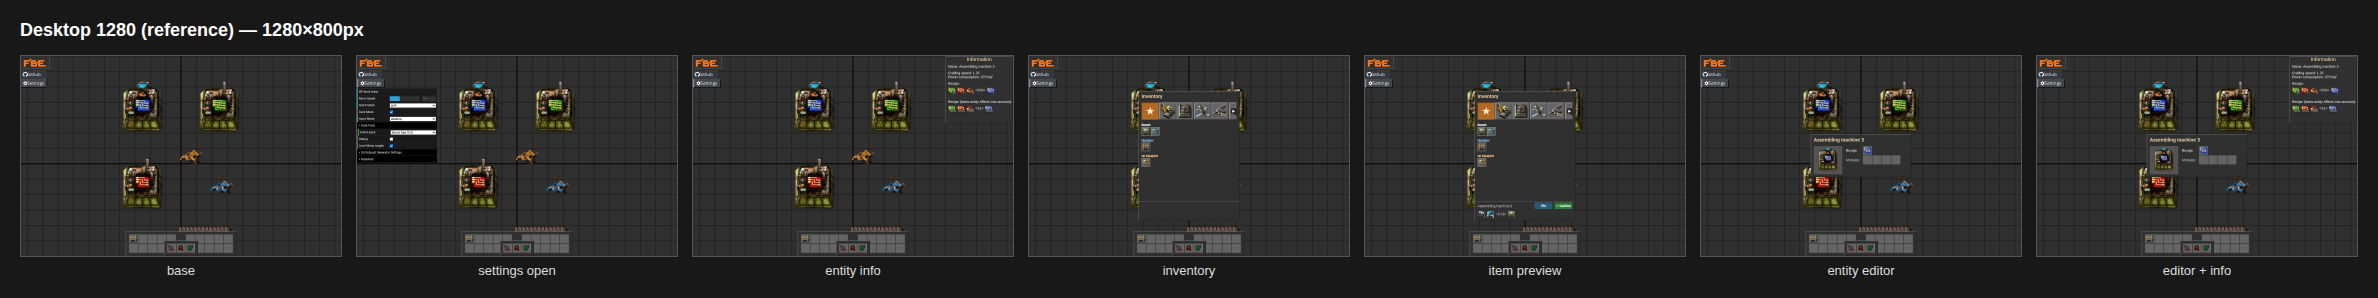
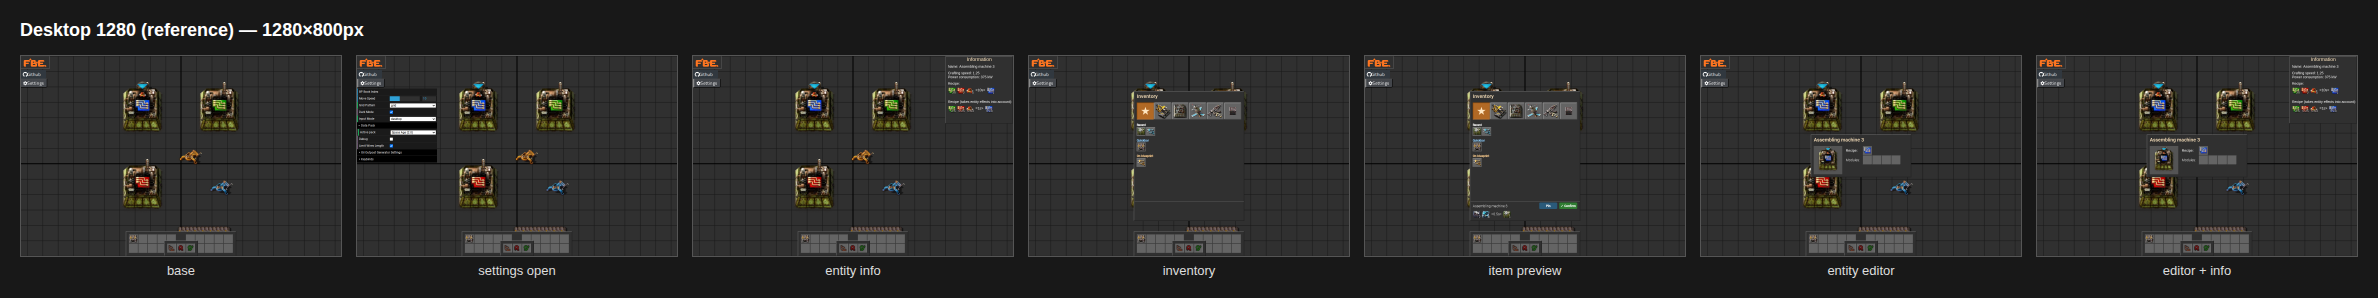
Inventory: responsive body width so the tab scroll only engages when needed
The dialog was a fixed 404px with a 10-column grid, so the group-tab row (Space
Age has ~8 groups) overflowed internally and the ◀▶ scroll engaged on any screen
width. The body width is now computed to fit all tabs, capped to the screen and
never below the 404px 10-col minimum; the item grid takes as many 38px columns as
fit. So on a wide screen the tabs all show (no horizontal scroll) and items use
the extra width; narrow phones are unchanged (404, scaled to fit). Tab/item
viewports, masks, arrows, recipe strip and the Confirm/Pin bar all derive from the
width now. (Editors are fixed-width and never scrolled horizontally.)

type-check/lint/build clean; storyboard shows the wide inventory with all tabs in
one row; panels e2e green.

https://claude.ai/code/session_01ALecjJBbKEuKghH8Qn3ShR

diff --git a/packages/editor/src/UI/InventoryDialog.ts b/packages/editor/src/UI/InventoryDialog.ts
@@ -53,17 +53,23 @@ export class InventoryDialog extends Dialog {
     /** Hovered item for item pointerout check */
     private m_hoveredItem: string
 
-    // Scroll state. The group-tab row (Space Age adds enough groups to overflow
-    // the 404px body) scrolls horizontally; the active group's item grid scrolls
-    // vertically so any number of items is reachable. Both are masked to their
-    // viewport and driven by arrow buttons (drag-pan + tap-to-confirm come later).
-    private static readonly VIEW_W = 380
+    // Scroll state. The group-tab row scrolls horizontally and the active item
+    // grid vertically, each masked to its viewport and driven by arrow buttons.
+    // The body width is responsive (see computeWidth), so the tab scroll only
+    // engages when the tabs genuinely don't fit the screen.
     private static readonly TAB_H = 68
     private static readonly ITEMS_H = 304
+    /** Item grid columns, derived from the (responsive) body width. */
+    private m_cols = 10
     private m_tabScroll = 0
     private m_itemScroll = 0
     private m_tabArrows?: { left: Container; right: Container; max: number }
     private m_itemArrows?: { up: Container; down: Container }
+
+    /** Inner content/viewport width = body width minus the 12px side margins. */
+    private get viewW(): number {
+        return this.width - 24
+    }
 
     // Long-press preview state + the bottom Confirm / Pin bar it reveals.
     private m_itemsFilter?: string[]
@@ -83,8 +89,9 @@ export class InventoryDialog extends Dialog {
         selectedCallBack?: (selectedItem: string) => void,
         recentsKey?: string
     ) {
-        super(404, 442, title)
+        super(InventoryDialog.computeWidth(itemsFilter, recentsKey), 442, title)
 
+        this.m_cols = Math.floor(this.viewW / 38)
         this.m_itemsFilter = itemsFilter
         this.m_selectedCallBack = selectedCallBack
         this.m_recentsKey = recentsKey
@@ -159,7 +166,7 @@ export class InventoryDialog extends Dialog {
                 for (const item of subgroup.items) {
                     if (!this.isAllowed(item.name)) continue
 
-                    if (itemColIndex === 10) {
+                    if (itemColIndex === this.m_cols) {
                         itemColIndex = 0
                         itemRowIndex += 1
                     }
@@ -190,7 +197,7 @@ export class InventoryDialog extends Dialog {
         this.addChild(recipePanel)
 
         const recipeBackground = F.DrawRectangle(
-            404,
+            this.width,
             78,
             colors.dialog.background.color,
             colors.dialog.background.alpha,
@@ -212,7 +219,7 @@ export class InventoryDialog extends Dialog {
         const pin = InventoryDialog.barButton('Pin', 0x2a5a7a)
         this.m_pinBtn = pin.container
         this.m_pinText = pin.text
-        this.m_pinBtn.position.set(240, 446)
+        this.m_pinBtn.position.set(this.width - 164, 446)
         this.m_pinBtn.on('pointerup', e => {
             e.stopPropagation()
             const name = this.m_previewName
@@ -232,7 +239,7 @@ export class InventoryDialog extends Dialog {
 
         const confirm = InventoryDialog.barButton('✓ Confirm', 0x2f7d32)
         this.m_confirmBtn = confirm.container
-        this.m_confirmBtn.position.set(320, 446)
+        this.m_confirmBtn.position.set(this.width - 84, 446)
         this.m_confirmBtn.on('pointerup', e => {
             e.stopPropagation()
             if (this.m_previewName) this.commitSelect(this.m_previewName)
@@ -245,14 +252,36 @@ export class InventoryDialog extends Dialog {
 
     /** Filter a name to what this selector allows (filter list, or placeable). */
     private isAllowed(name: string): boolean {
-        const filter = this.m_itemsFilter
-        if (filter !== undefined) return filter.includes(name)
+        return InventoryDialog.isItemAllowed(name, this.m_itemsFilter)
+    }
+
+    private static isItemAllowed(name: string, itemsFilter?: string[]): boolean {
+        if (itemsFilter !== undefined) return itemsFilter.includes(name)
         const itemData = FD.items[name]
         if (!itemData) return false
         if (!itemData.place_result && !itemData.place_as_tile) return false
         // needed for robots/trains/cars
         if (itemData.place_result && !FD.entities[itemData.place_result]) return false
         return true
+    }
+
+    /**
+     * Body width: wide enough to show all group tabs (Space Age has many),
+     * capped to the screen, but never narrower than the 404px 10-column item
+     * grid. Keeps the tab scroll from engaging when there's room to just show
+     * them, and gives the item grid more columns on wider screens.
+     */
+    private static computeWidth(itemsFilter?: string[], recentsKey?: string): number {
+        let tabs = recentsKey ? 1 : 0
+        for (const group of FD.inventoryLayout) {
+            if (group.name === 'creative' && itemsFilter !== undefined) continue
+            const hasItems = group.subgroups.some(sg =>
+                sg.items.some(it => InventoryDialog.isItemAllowed(it.name, itemsFilter))
+            )
+            if (hasItems) tabs += 1
+        }
+        const needed = tabs * 70 + 22 // tabs (70px each, minus trailing gap) + 12px margins
+        return Math.max(404, Math.min(needed, G.app.screen.width - 16))
     }
 
     /** An item button: quick tap commits, long-press previews (Confirm/Pin bar). */
@@ -353,10 +382,10 @@ export class InventoryDialog extends Dialog {
             y += 18
             section.names.forEach((name, i) => {
                 const button = this.makeItemButton(name)
-                button.position.set((i % 10) * 38, y + Math.floor(i / 10) * 38)
+                button.position.set((i % this.m_cols) * 38, y + Math.floor(i / this.m_cols) * 38)
                 container.addChild(button)
             })
-            y += Math.ceil(section.names.length / 10) * 38 + 6
+            y += Math.ceil(section.names.length / this.m_cols) * 38 + 6
         }
     }
 
@@ -463,20 +492,15 @@ export class InventoryDialog extends Dialog {
 
     /** Clip the tab row and, when it overflows, add ◀ ▶ to scroll it. */
     private setupTabScroll(groupCount: number): void {
-        this.m_InventoryGroups.mask = this.rectMask(
-            12,
-            46,
-            InventoryDialog.VIEW_W,
-            InventoryDialog.TAB_H
-        )
+        this.m_InventoryGroups.mask = this.rectMask(12, 46, this.viewW, InventoryDialog.TAB_H)
         const contentW = groupCount > 0 ? (groupCount - 1) * 70 + 68 : 0
-        const max = Math.max(0, contentW - InventoryDialog.VIEW_W)
+        const max = Math.max(0, contentW - this.viewW)
         if (max <= 0) return
 
         const left = InventoryDialog.arrowButton('◀')
         left.position.set(12, 46 + (InventoryDialog.TAB_H - 22) / 2)
         const right = InventoryDialog.arrowButton('▶')
-        right.position.set(12 + InventoryDialog.VIEW_W - 22, 46 + (InventoryDialog.TAB_H - 22) / 2)
+        right.position.set(12 + this.viewW - 22, 46 + (InventoryDialog.TAB_H - 22) / 2)
         this.addChild(left, right)
         this.m_tabArrows = { left, right, max }
 
@@ -499,8 +523,7 @@ export class InventoryDialog extends Dialog {
         // only fully-visible tabs stay tappable.
         for (const tab of this.m_InventoryGroups.children) {
             const inView =
-                tab.x >= this.m_tabScroll - 1 &&
-                tab.x + 68 <= this.m_tabScroll + InventoryDialog.VIEW_W + 1
+                tab.x >= this.m_tabScroll - 1 && tab.x + 68 <= this.m_tabScroll + this.viewW + 1
             tab.eventMode = inView ? 'static' : 'none'
         }
         if (this.m_tabArrows) {
@@ -511,17 +534,12 @@ export class InventoryDialog extends Dialog {
 
     /** Clip the item grid and add ▲ ▼ to scroll the active group vertically. */
     private setupItemScroll(): void {
-        this.m_InventoryItems.mask = this.rectMask(
-            12,
-            126,
-            InventoryDialog.VIEW_W,
-            InventoryDialog.ITEMS_H
-        )
+        this.m_InventoryItems.mask = this.rectMask(12, 126, this.viewW, InventoryDialog.ITEMS_H)
 
         const up = InventoryDialog.arrowButton('▲')
-        up.position.set(12 + InventoryDialog.VIEW_W - 22, 126)
+        up.position.set(12 + this.viewW - 22, 126)
         const down = InventoryDialog.arrowButton('▼')
-        down.position.set(12 + InventoryDialog.VIEW_W - 22, 126 + InventoryDialog.ITEMS_H - 22)
+        down.position.set(12 + this.viewW - 22, 126 + InventoryDialog.ITEMS_H - 22)
         this.addChild(up, down)
         this.m_itemArrows = { up, down }
 